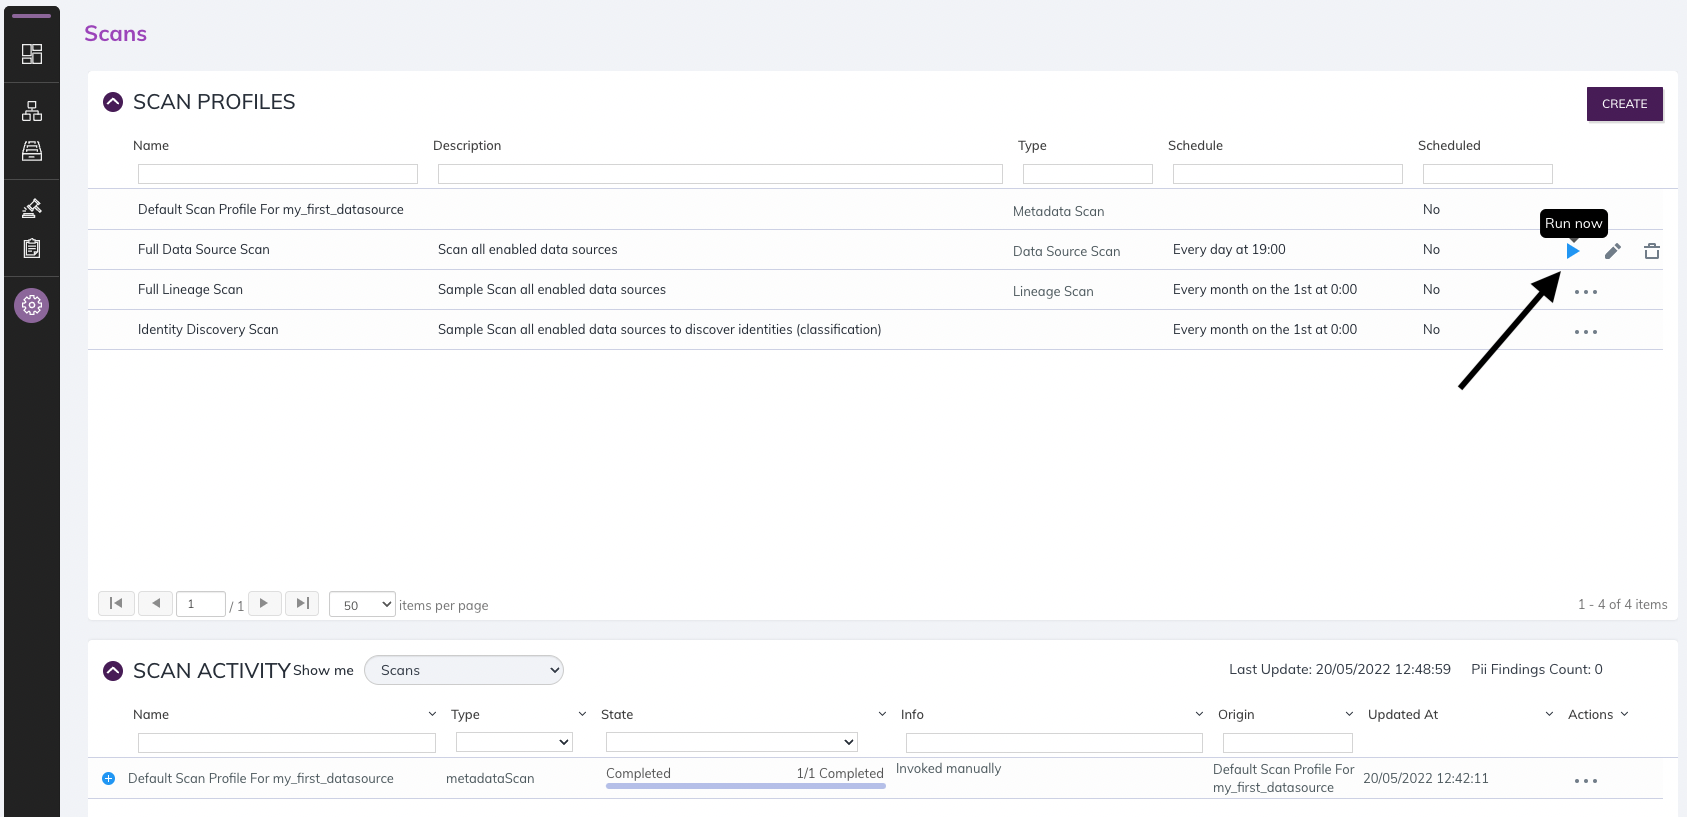
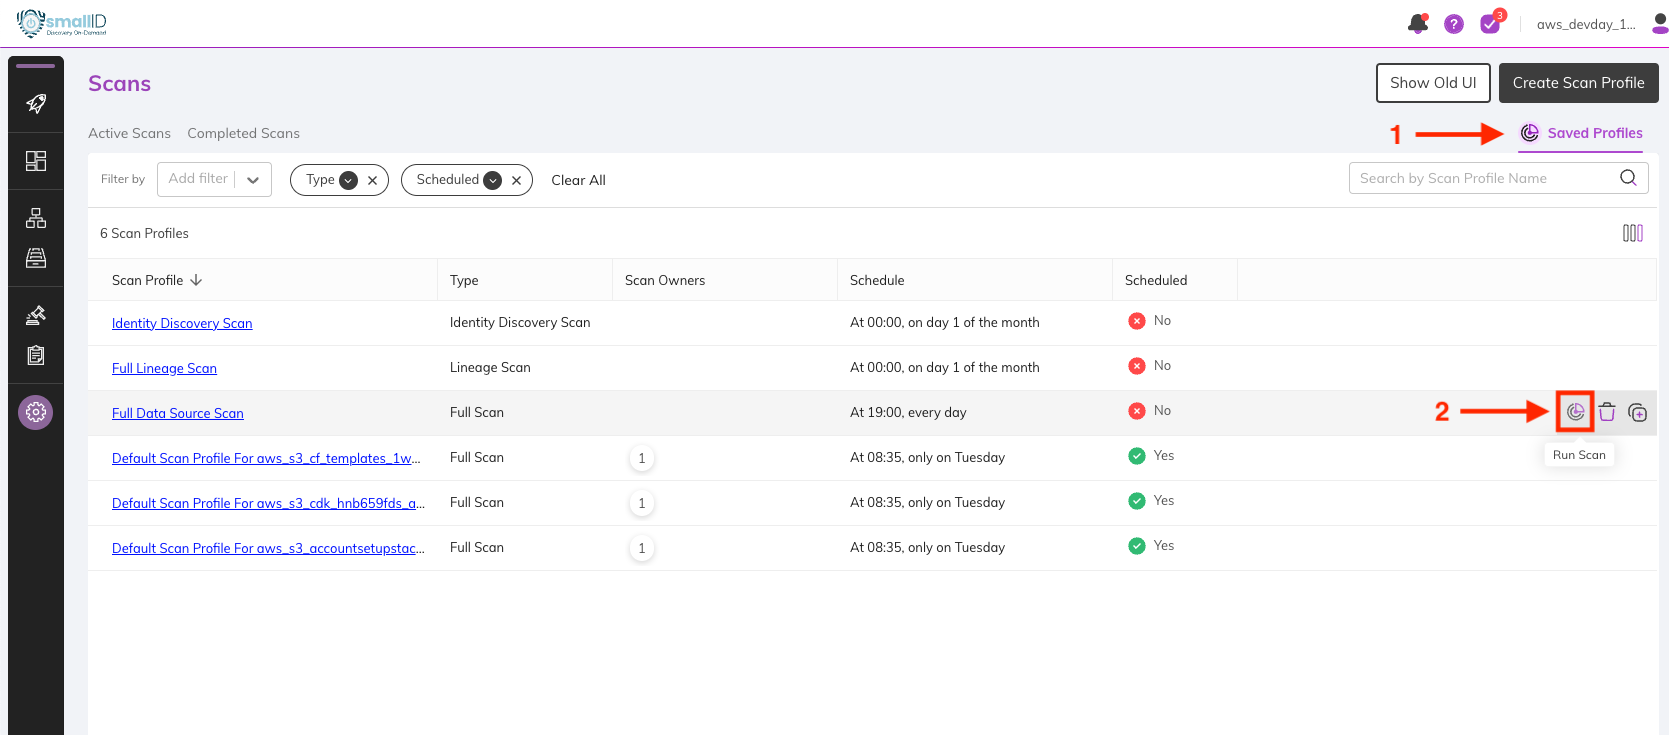
more content refresh

diff --git a/content/30_data discovery/35_manual/40_run_a_scan.md b/content/30_data discovery/35_manual/40_run_a_scan.md
@@ -9,20 +9,18 @@ weight: 40
 
 ![](/images/new_ds_structured/go_to_scan.png)
 
-Then, expand the Scan Profile section
 
-### Start a scan
-Once you have expanded the Scan Profiles section, you can start a scan.
-In this example, we will select the already existing "Full Data Source Scan".
-You can create your own scan profile to create tailor made scanning activity, both in terms of scanning type and data source.
+### Start a full scan
+
+1. First click on Saved Profile at the top right
+2. Then look for Full Data Source Scan profile and hover the right section and start a new scan.
 
 ![](/images/new_ds_structured/full_ds_scan.png)
+![](/images/new_ds_structured/keep_disabled.png)
+3. If you are prompted to enable classifier tuning, keep it disabled and click run
+You can create your own scan profile to create tailor made scanning activity, both in terms of scanning type and data source.
 
 ### Wait for the scan to complete
 The scan you initiated will be listed in the scan activity.
-Once this is complete, you can click on Info to get a overview of the findings.
 
-![](/images/new_ds_structured/scanning_info.png)
-
-This should display something like this
-![](/images/new_ds_structured/scanning_overview.png)
+![](/images/new_ds_structured/scanning_infov2.png)

diff --git a/content/30_data discovery/10_automated/50_challenge_1.md b/content/30_data discovery/10_automated/50_challenge_1.md
@@ -1,0 +1,24 @@
+---
+title: "Challenge #1"
+chapter: false
+weight: 50
+---
+
+## Data Catalog
+To open the data catalog, navigate to the Catalog section in the left panel.
+![Navigate to catalog](/images/new_ds_structured/go_to_catalog.png)
+### What is the catalog ?
+
+Everytime we scan data, SmallID maintains a stateful view of the objects and findings. It's like a central repository for all the metadata SmallID was able to collect during its scan process. Please note that SmallID (or BigID) never copy your actual data from your data sources.
+### Identify S3 objects where Credit card information is present
+
+In order to do this, you can do the following query in the catalog. Try to find on the left menu "classifier.Credit Card".
+![Find attribute](/images/autodiscovery/find_cc.png)
+The resulting query should be:
+`field IN ("classifier.Credit Card")`
+
+### Exporting a list of datasource containing Credit Card information
+
+You can use SmallID Classification blade to have a nicer view of your finding related to a specific classifiers
+
+![export object via classification UI](/images/autodiscovery/classification_cc_ui.png)

diff --git a/content/30_data discovery/35_manual/10_connection.md b/content/30_data discovery/35_manual/10_connection.md
@@ -35,16 +35,3 @@ With those values, populate your new datasource in SmallID. Then Click on "Test 
 
 You connection should be green
 ![connection is green](/images/new_ds_structured/green.jpg)
-
-
-#### Connection details
-Now that connection is green, click on next to go to Connection details.
-#### Owners
-You can put any email address and this will dynamically create a new users in the system.
-![details section](/images/new_ds_structured/details.png)
-
-#### Scan settings
-Click on next to jump to scan settings. Here you can configure a couple of different options.
-For now, we will only enable classifiers. Click on Save button to save your data source.
-
-![enable classifiers](/images/new_ds_structured/enable_classifiers.png)

diff --git a/content/30_data discovery/35_manual/20_details.md b/content/30_data discovery/35_manual/20_details.md
@@ -6,12 +6,13 @@ weight: 20
 
 #### Connection details
 Now that connection is green, click on next to go to Connection details.
-#### Owners
-You can put any email address and this will dynamically create a new users in the system.
-![](/images/new_ds_structured/details.png)
 
 #### Location
 Here, we manually declare the Location of the data source. As our lab runs in us-east-1, we declare Virginia.
+![](/images/new_ds_structured/details.png)
+
+#### Owners - optional
+You can put any email address and this will dynamically create a new users in the system.
 
 #### Next
 Click "next" to move to the next section

diff --git a/content/40_business_tools/02_saved_queries.md b/content/40_business_tools/02_saved_queries.md
@@ -21,7 +21,10 @@ As possible, use the filter panel in the catalog to generate the query for you. 
 TODO
 
 ## Create a saved query
-TODO
+field IN ("classifier.Cleartext Password near Term")
+field IN ("classifier.US SSN")
+
+query.devday IN ( "ssn", "password" )
 ## Use a saved query in the catalog
 Rather than enter the query statement, we refer to the saved query with the reserved word “query” then dot, followed by the query name, equals sign and query value.  Press the Enter key (or click the magnifying glass icon) to execute the saved query.
 ## Use a saved query in the policy

diff --git a/content/30_data discovery/35_manual/50_challenge_2.md b/content/30_data discovery/35_manual/50_challenge_2.md
@@ -1,0 +1,19 @@
+---
+title: "Challenge #2"
+chapter: false
+weight: 50
+---
+
+### Explore catalog
+![Catalog findings](/images/new_ds_structured/catalog_any_PI.png)
+
+In this case, each object is a different table found in our RDS database.
+
+### Explore Employees table structure
+In the catalog, select the employees and observe colum structure
+![Catalog findings](/images/new_ds_structured/explore_employee.png)
+
+
+### Identify tables where cleartext password are present
+
+Filter on "classifier.Cleartext Password" and find where cleartext passwords are present

diff --git a/content/30_data discovery/10_automated/_index.md b/content/30_data discovery/10_automated/_index.md
@@ -1,8 +1,8 @@
 ---
-title: "Autodiscovery Wizard"
+title: "Module 1 - Autodiscovery"
 chapter: true
 weight: 10
 ---
 
-# Autodiscovery Wizard
+# Autodiscovery module
 {{% children showhidden="false" %}}

diff --git a/content/30_data discovery/10_automated/10_start_wizard.md b/content/30_data discovery/10_automated/10_start_wizard.md
@@ -1,5 +1,5 @@
 ---
-title: "Countries and Regulations"
+title: "Autodiscovery wizard"
 chapter: false
 weight: 10
 ---

diff --git a/content/30_data discovery/35_manual/_index.md b/content/30_data discovery/35_manual/_index.md
@@ -1,5 +1,5 @@
 ---
-title: "Scanning RDS"
+title: "Module 2: Scanning RDS"
 chapter: true
 weight: 35
 ---

diff --git a/content/30_data discovery/35_manual/30_settings.md b/content/30_data discovery/35_manual/30_settings.md
@@ -1,5 +1,5 @@
 ---
-title: "Settings"
+title: "Scan Settings"
 chapter: false
 weight: 30
 ---
